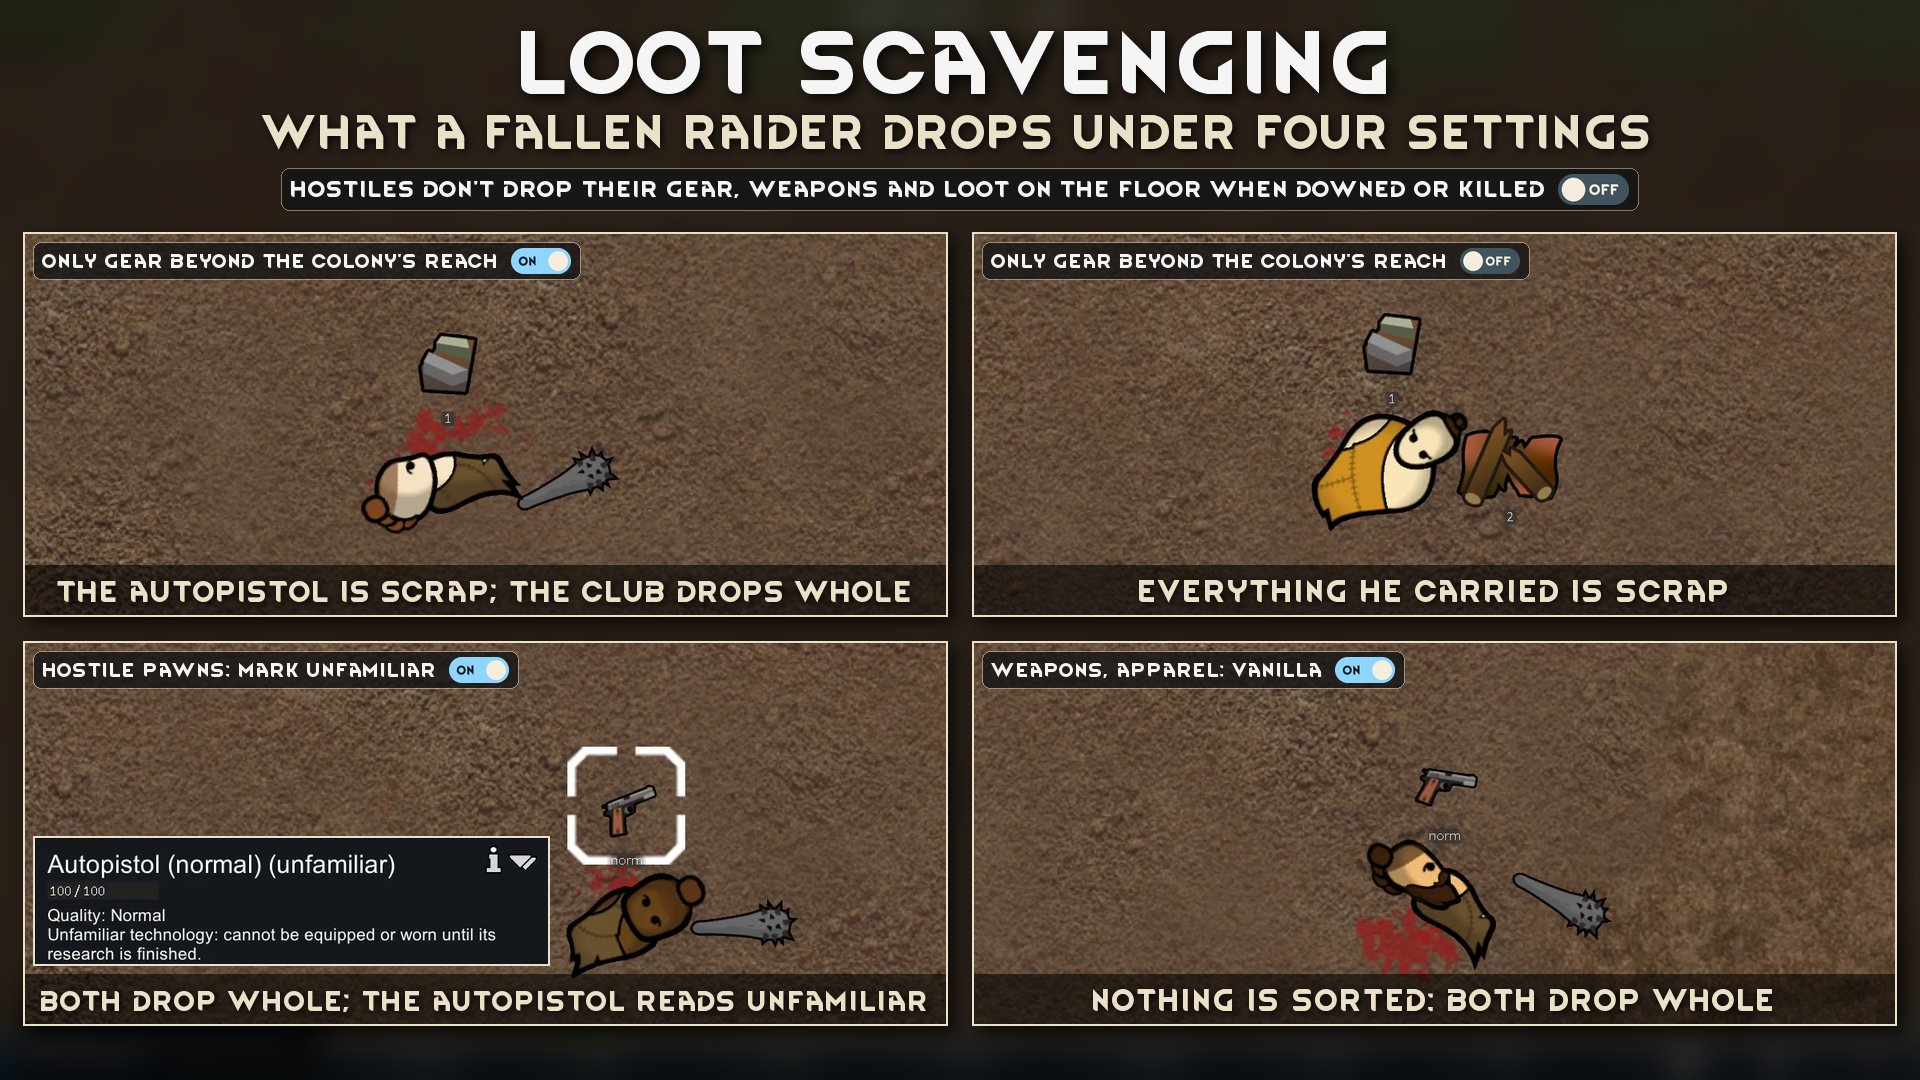
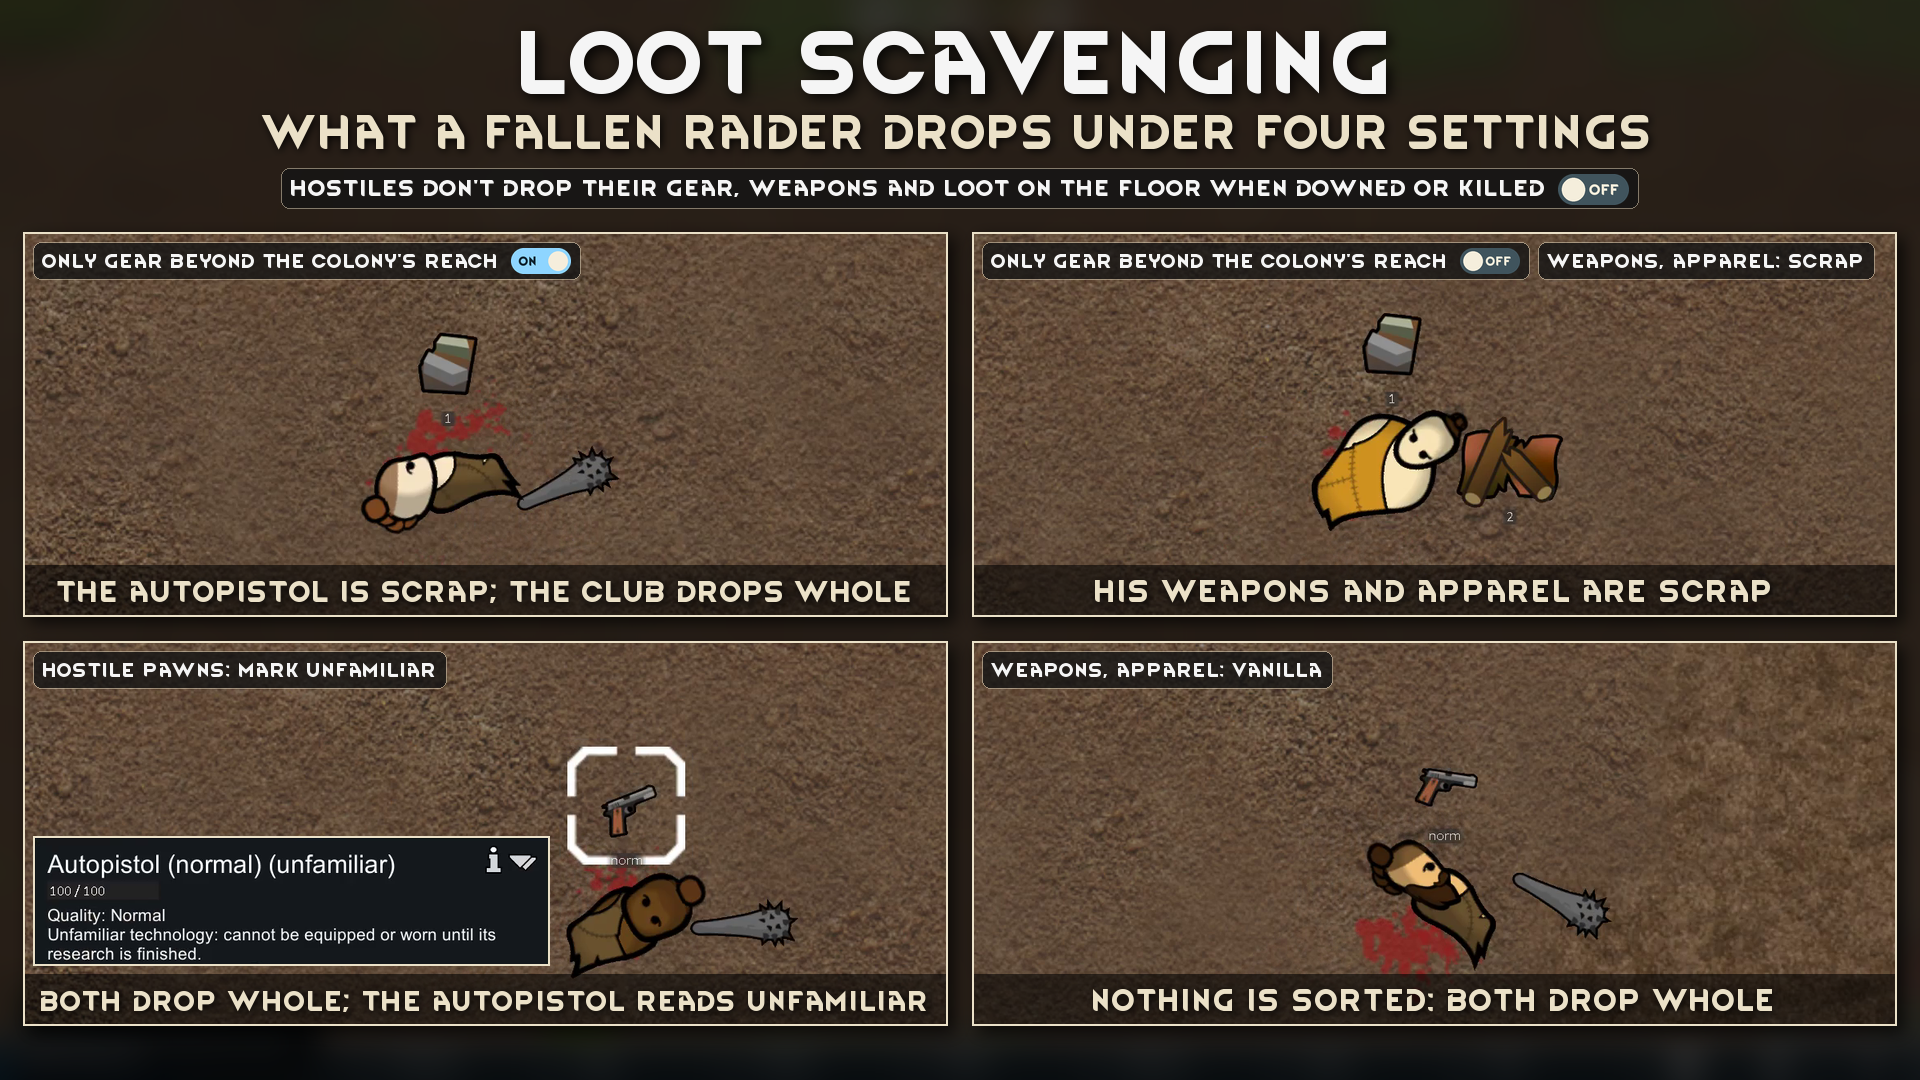
Draw dropdown settings as chips without a switch in the loot-styles image
Panel 2 now claims only that weapons and apparel become scrap under 0.6.0.

diff --git a/tools/workshop_gallery.py b/tools/workshop_gallery.py
@@ -7,7 +7,7 @@
 
 inspect cuts stills from a lootscavenging-workshop-clips run (shots.json marks, layout.json cameras); loot-styles cuts them from
 a lootscavenging-promo-clips run (PROMO_RUN by default). settings uses work/gallery/settings-frame.png, a frame from a `lootscavenging-ui --record
---show-ui` run (see TESTING.md). Numbers come from Defs/ (study points from SettingsDefaults.xml), bench labels from the game's Data, mode labels from the English Keyed
+--show-ui` run (see TESTING.md). Numbers come from Defs/ (study points from SettingsDefaults.xml), bench labels from the game's Data, setting labels from the English Keyed
 file, and the inspect text is the game's own, cropped from the stills.
 """
 from pathlib import Path
@@ -264,7 +264,7 @@ def cropped(img, frame, centre, src_h, box, caption, band=52):
 # off scene's crop stays west of the map's edge at x 2290.
 STYLES = [
     ("drop-scrapoutofreach-dead", 1.8, (1110, 650), "The autopistol is scrap; the club drops whole"),
-    ("drop-scrapeverything-dead", 1.8, (1260, 530), "Everything he carried is scrap"),
+    ("drop-scrapeverything-dead", 1.8, (1260, 530), "His weapons and apparel are scrap"),
     ("drop-keeporiginal-selected", 1.8, (1180, 610), "Both drop whole; the autopistol reads unfamiliar"),
     ("drop-off-dead", 1.8, (1340, 640), "Nothing is sorted: both drop whole"),
 ]
@@ -275,10 +275,10 @@ def loot_styles(run):
     reach = text["LootScavenging_OnlyBeyondReach"]
     gear = f"{text['LootScavenging_CategoryWeapons']}, {text['LootScavenging_CategoryApparel']}"
     chips = [
-        (reach, True),
-        (reach, False),
-        (f"{text['LootScavenging_WhoHostile']}: {text['LootScavenging_WhoMark']}", True),
-        (f"{gear}: {text['LootScavenging_OutcomeKeep']}", True),
+        [(reach, True)],
+        [(reach, False), (f"{gear}: {text['LootScavenging_OutcomeScrap']}", None)],
+        [(f"{text['LootScavenging_WhoHostile']}: {text['LootScavenging_WhoMark']}", None)],
+        [(f"{gear}: {text['LootScavenging_OutcomeKeep']}", None)],
     ]
     frames = [still(run, name, after) for name, after, _, _ in STYLES]
     img = backdrop(frames[0])
@@ -286,16 +286,18 @@ def loot_styles(run):
     # Every still shows gear landing at death, which 0.6.0 does only with the Hostiles box off; the chip says so.
     label = text["LootScavenging_HostilesKeepGear"]
     probe = Image.new("RGBA", CANVAS, (0, 0, 0, 0))
-    setting_chip(probe, (0, 0), label, False, 1400, size=22)
-    chip_w = probe.getbbox()[2]
+    chip_w = setting_chip(probe, (0, 0), label, False, 1400, size=22)
     setting_chip(img, ((CANVAS[0] - chip_w) // 2, 168), label, False, 1400, size=22)
     w, h, gap, top = 925, 385, 24, 232
     left = (CANVAS[0] - 2 * w - gap) // 2
-    for i, ((name, _, centre, caption), frame, (chip, on)) in enumerate(zip(STYLES, frames, chips)):
+    for i, ((name, _, centre, caption), frame, chip) in enumerate(zip(STYLES, frames, chips)):
         x = left + (i % 2) * (w + gap)
         y = top + (i // 2) * (h + gap)
         cropped(img, frame, centre, 470, (x, y, w, h), caption)
-        setting_chip(img, (x + 10, y + 10), chip, on, w - 20)
+        cx = x + 10
+        for label_, on in chip:
+            # Toggles carry a switch; dropdown settings (on is None) do not.
+            cx += setting_chip(img, (cx, y + 10), label_, on, x + w - 10 - cx) + 8
         if name == "drop-keeporiginal-selected":
             inset = pane(frame)
             inset = inset.resize((round(inset.width * 0.8), round(inset.height * 0.8)), Image.LANCZOS)

diff --git a/tools/preview_story.py b/tools/preview_story.py
@@ -177,20 +177,24 @@ def switch(on, height):
 
 
 def setting_chip(img, xy, text, on, max_width, size=17):
-    """A dark chip with a setting's label and its switch. The label shrinks until the chip fits `max_width`."""
+    """A dark chip with a setting's label and its switch, or with no switch when `on` is None (a dropdown setting). The label
+    shrinks until the chip fits `max_width`."""
     text = text.lower()
-    icon = switch(on, size + 9)
-    pad, gap = 10, 12
-    while size > 11 and font(False, size).getlength(text) + icon.width + pad * 2 + gap > max_width:
+    icon = switch(on, size + 9) if on is not None else None
+    iw = icon.width + 12 if icon else 0
+    pad = 10
+    while size > 11 and font(False, size).getlength(text) + iw + pad * 2 > max_width:
         size -= 1
     fnt = font(False, size)
-    w = round(pad + fnt.getlength(text) + gap + icon.width + pad)
-    h = icon.height + 2 * 6
+    w = round(pad + fnt.getlength(text) + iw + pad)
+    h = size + 9 + 2 * 6
     chip = Image.new("RGBA", (w, h), (0, 0, 0, 0))
     ImageDraw.Draw(chip).rounded_rectangle([0, 0, w - 1, h - 1], radius=8, fill=(20, 20, 20, 205), outline=(235, 225, 200, 120))
     ImageDraw.Draw(chip).text((pad, h / 2), text, font=fnt, anchor="lm", fill=WHITE)
-    chip.alpha_composite(icon, (w - pad - icon.width, 6))
+    if icon:
+        chip.alpha_composite(icon, (w - pad - icon.width, 6))
     img.alpha_composite(chip, xy)
+    return w
 
 
 def framed(img, shot, frame, centre, height, box, caption, band=52):

diff --git a/.scratch/workshop-media/spec.md b/.scratch/workshop-media/spec.md
@@ -42,9 +42,9 @@ Gallery images are 1920x1080 PNG. Order:
    - the study points per unit.
 
    A caption says that a bench handles its own tier and every tier below it.
-3. **`gallery-loot-styles.png`**: a fallen tribal warrior in four panels, one per loot style, cut from the promo footage. A chip above the panels shows the Hostiles "Don't drop your stuff" box off, and each panel has a chip naming the setting behind its style:
+3. **`gallery-loot-styles.png`**: a fallen tribal warrior in four panels, one per loot style, cut from the promo footage. A chip above the panels shows the Hostiles "Don't drop your stuff" box off, and each panel has a chip naming the setting behind its style (a switch only for the on/off toggle, none for dropdown settings):
    - only gear beyond the colony's reach is scrapped;
-   - everything he carried is scrapped;
+   - with that toggle off, his weapons and apparel are scrapped (a second chip, "Weapons, Apparel: Scrap", the 0.6.0 default; other categories are not claimed);
    - hostile pawns' gear is marked unfamiliar, shown selected with the unfamiliar line in its inspect pane;
    - weapons and apparel left vanilla.
 4. **`gallery-settings.png`**: an in-game screenshot of the settings page on Progression. It shows the preset line with its sentence, the three "Don't drop your stuff" boxes and the first Who rows with theirs, framed with a short title.
